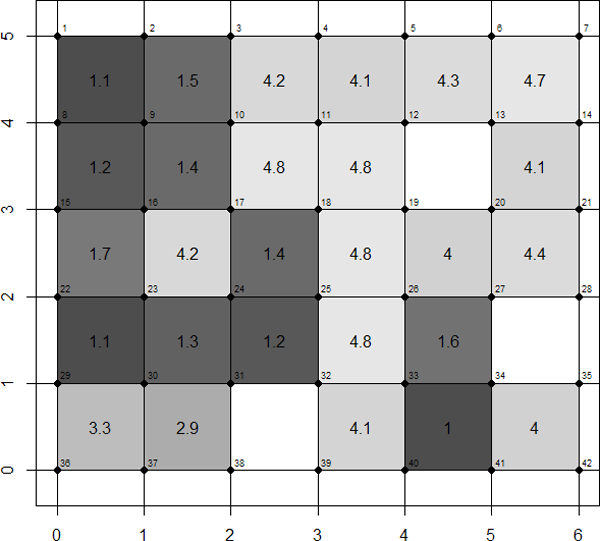
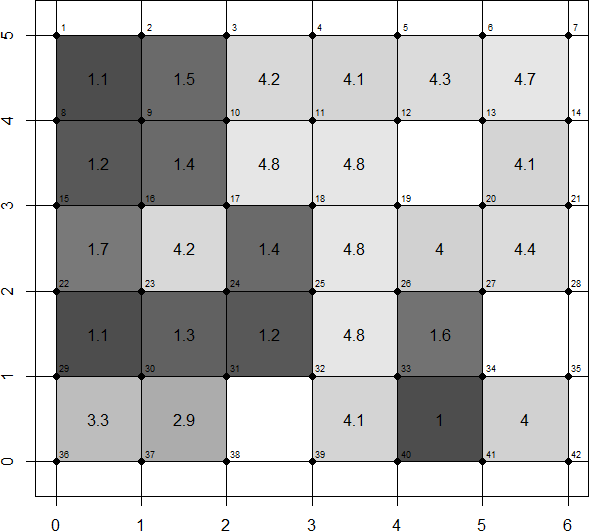
Tidy cv and about

diff --git a/pages/about.md b/pages/about.md
@@ -4,19 +4,27 @@ title: About
 ---
 {% include JB/setup %}
 
-Jason Fisher is a hydrologist with the U.S. Geological Survey (USGS) [Idaho Water Science Center](https://id.water.usgs.gov/).
-He received a B.S. in environmental resources engineering and a M.S. in environmental systems from Humboldt State University,
+I'm a hydrologist with the U.S. Geological Survey (USGS) [Idaho Water Science Center](https://id.water.usgs.gov/).
+I received a B.S. in environmental resources engineering and a M.S. in environmental systems from Humboldt State University,
 and a M.S. and Ph.D. in civil engineering from the University of California Los Angeles.
-Jason started his research career at the U.S. Forest Service Pacific Southwest Research Station, 1997--2001.
-After completing his education, he was a postdoctoral researcher in the School of Engineering at University of California Merced, 2004--2008.
-In 2008, he moved to the USGS where he is the lead modeler at the [Idaho National Laboratory Project Office](https://id.water.usgs.gov/INL/).
-His research experience is varied, including groundwater flow and contaminant transport simulations,
-optimization of long-term monitoring networks, multilevel groundwater monitoring, and water-quality characteristics and trends.
-Recently he has been focusing on reproducible model building; see his [wrv](https://github.com/USGS-R/wrv) package.
+My research career started at the U.S. Forest Service Pacific Southwest Research Station, 1997--2001.
+After completing my education, I was a postdoctoral researcher in the School of Engineering at University of California Merced, 2004--2008.
+In 2008, I moved to the USGS where I'm the lead modeler at the [Idaho National Laboratory Project Office](https://id.water.usgs.gov/INL/).
+My research experience is varied, including groundwater flow and contaminant transport simulations,
+optimization of long-term monitoring networks, multilevel groundwater monitoring, water-quality characteristics and trends,
+and [infographics]({{ site.github.url }}/art/2012/05/31/infographics).
+Recently I've been focusing on [reproducible model building]({{ site.github.url }}/r/2016/08/04/wrv-case-study).
 
-Jason rarely blogs---what few posts he has written are organized by [tags](/tags.html), [categories](/categories.html), and [date](/archive.html).
-His blog posts related to the [R](https://www.r-project.org/)-programming language are aggregated by [R-bloggers](https://www.r-bloggers.com/).
+My science goal is to utilize collected field data to develop models for groundwater systems,
+and to determine and monitor trends of groundwater movement and chemical transport in complex geologic settings, such as fractured rock.
+Groundwater models are necessary for the sustainable management of water resources.
+The goal is to design models that facilitate future flexibility; that is,
+as new data become available, and our understanding of the groundwater system improves,
+the model should be easily adapted and extended to deal with this new information.
+
+I rarely blog---what few posts I've written are organized by [tags](/tags.html), [categories](/categories.html), and [date](/archive.html).
+My blog posts related to the [R](https://www.r-project.org/)-programming language are aggregated by [R-bloggers](https://www.r-bloggers.com/).
 
 ![center](/figs/tower.jpg)
 
-##### "Hills cherish the ambition to turn into partial differential equations." --Donald Hall
+##### "Hills cherish the ambition to turn into partial differential equations." --Donald Hall <br/> Tower Peak, Sierra Nevada, CA

diff --git a/_posts/2012-06-25-grid2polygons.md b/_posts/2012-06-25-grid2polygons.md
@@ -45,20 +45,20 @@ The following examples highlight the functions usefulness:
 Construct a simple spatial grid data frame.
 
 ```r
-m <- 5
-n <- 6
 z <- c(1.1,  1.5,  4.2,  4.1,  4.3,  4.7,
        1.2,  1.4,  4.8,  4.8,   NA,  4.1,
        1.7,  4.2,  1.4,  4.8,  4.0,  4.4,
        1.1,  1.3,  1.2,  4.8,  1.6,   NA,
        3.3,  2.9,   NA,  4.1,  1.0,  4.0)
-x <- rep(0:6, m + 1)
-y <- rep(0:5, each = n + 1)
-xc <- c(rep(seq(0.5, 5.5, by = 1), m))
-yc <- rep(rev(seq(0.5, 4.5, by = 1)), each = n)
+m <- 5
+n <- 6
+x <- rep(0:n, m + 1)
+y <- rep(0:m, each = n + 1)
+xc <- c(rep(seq(0.5, n - 0.5, by = 1), m))
+yc <- rep(rev(seq(0.5, m - 0.5, by = 1)), each = n)
 grd <- data.frame(z = z, xc = xc, yc = yc)
-coordinates(grd) <- ~ xc + yc
-gridded(grd) <- TRUE
+sp::coordinates(grd) <- ~ xc + yc
+sp::gridded(grd) <- TRUE
 grd <- as(grd, "SpatialGridDataFrame")
 ```
 
@@ -69,7 +69,7 @@ image(grd, col = gray.colors(30), axes = TRUE)
 grid(col = "black", lty = 1)
 points(x = x, y = y, pch = 16)
 text(cbind(xc, yc), labels = z)
-text(cbind(x = x + 0.1, y = rev(y + 0.1)), labels = 1:42, cex = 0.6)
+text(cbind(x = x + 0.1, y = rev(y + 0.1)), labels = 1:((m + 1) * (n + 1)), cex = 0.6)
 ```
 
 ![center](/figs/2012-06-25-grid2polygons/fig1.png)
@@ -83,12 +83,13 @@ is used to determine if a polygon ring is filled (island) or is a
 hole in another polygon.
 
 ```r
-plys <- Grid2Polygons(grd, level = TRUE, at = 1:5)
-cols <- rainbow(4, alpha = 0.3)
-plot(plys, col = cols, add = TRUE)
-x <- rep(0:6, m + 1)
-y <- rep(0:5, each = n + 1)
-legend("top", legend = plys[[1]], fill = cols, bty = "n", xpd = TRUE, inset = c(0, -0.1), ncol = 4)
+at <- 1:ceiling(max(z, na.rm = TRUE))
+plys <- Grid2Polygons(grd, level = TRUE, at = at)
+cols <- rainbow(length(plys), alpha = 0.3)
+sp::plot(plys, add = TRUE, col = cols)
+zz <- plys[[1]]
+legend("top", legend = zz, fill = cols, bty = "n", xpd = TRUE,
+       inset = c(0, -0.1), ncol = length(plys))
 ```
 
 ![center](/figs/2012-06-25-grid2polygons/fig2.png)
@@ -103,22 +104,16 @@ included in the **sp** package.
 The effect of leveling is shown in **figure 3**.
 
 ```r
-data(meuse.grid)
-coordinates(meuse.grid) <- ~ x + y
-gridded(meuse.grid) <- TRUE
+data(meuse.grid, package = "sp")
+sp::coordinates(meuse.grid) <- ~ x + y
+sp::gridded(meuse.grid) <- TRUE
 meuse.grid <- as(meuse.grid, "SpatialGridDataFrame")
 meuse.plys <- Grid2Polygons(meuse.grid, "dist", level = FALSE)
-op <- par(mfrow = c(1, 2), oma = c(0, 0, 0, 0), mar = c(0, 0, 0, 0))
-z <- meuse.plys[[1]]
-col.idxs <- findInterval(z, sort(unique(na.omit(z))))
-cols <- heat.colors(max(col.idxs))[col.idxs]
-plot(meuse.plys, col = cols)
+op <- par(mfrow = c(1, 2), oma = rep(0, 4), mar = rep(0, 4))
+sp::plot(meuse.plys, col = heat.colors(length(meuse.plys)))
 title("level = FALSE", line = -7)
 meuse.plys.lev <- Grid2Polygons(meuse.grid, "dist", level = TRUE)
-z <- meuse.plys.lev[[1]]
-col.idxs <- findInterval(z, sort(unique(na.omit(z))))
-cols <- heat.colors(max(col.idxs))[col.idxs]
-plot(meuse.plys.lev, col = cols)
+sp::plot(meuse.plys.lev, col = heat.colors(length(meuse.plys.lev)))
 title("level = TRUE", line = -7)
 par(op)
 ```

diff --git a/_posts/2016-08-04-wrv-case-study.md b/_posts/2016-08-04-wrv-case-study.md
@@ -12,16 +12,14 @@ tags: [reproducibility, package, knitr, model]
 The U.S. Geological Survey ([USGS](https://www.usgs.gov/)) recently published a report describing a groundwater-flow model of the Wood River Valley (WRV) aquifer system.
 What makes this report unique (at least in my opinion) was the authors' desire to make their work as reproducible as possible under budgetary constraints.
 The collection of raw data, source code, and processing instructions used to build and analyze the model was placed in an non-general-use R package named **wrv**.
-The package repository can be found on [GitHub](https://github.com/USGS-R/wrv).
+The package repository can be found on the **G**elogical Survey **R** **A**rchive **N**etwork ([GRAN](https://github.com/USGS-R/wrv)).
 Commands for installing the package are as follows:
 
 ```r
-repos <- c("http://owi.usgs.gov/R", getOption("repos"))
+repos <- c("https://owi.usgs.gov/R", "https://cloud.r-project.org/")
 install.packages("wrv", repos = repos, dependencies = TRUE)  # about 100 MB, so be patient
 ```
 
-While many of the functions are intended for non-general use, there are a few functions that the larger R community might find of interest.
-For example, the `PlotMap`, `PlotGraph`, and `PlotCrossSection` functions have been designed for general use.
 Report documentation was included in the **wrv** package as vignettes; these files are also available from the
 [USGS Publications Warehouse](http://dx.doi.org/10.3133/sir20165080).
 For a general overview of the project, I'll recommend my
@@ -32,4 +30,3 @@ For a general overview of the project, I'll recommend my
 </div>
 
 Any comments or suggestions regarding our approach to reproducible model building can be left below.
-Please realize that your opinions go a long way in determining whether this type of approach will be used in future projects.

diff --git a/pages/cv.md b/pages/cv.md
@@ -146,6 +146,10 @@ title: Curriculum vitae
 
 ### Talks
 
+- USGS National Groundwater Workshop,
+  Reno, NV, Aug. 29, 2016,
+  A case study in reproducible model building: simulating groundwater flow in
+  the Wood River Valley aquifer system, Idaho.
 - The R User Conference ([useR!](http://user2016.org/)),
   Stanford University, Stanford, CA, Jun. 28, 2016,
   A case study in reproducible model building: simulating groundwater flow in
@@ -214,6 +218,10 @@ title: Curriculum vitae
 - AGU Chapman Conference on State-of-the-Art in Hillslope Hydrology, Sunriver,
   OR, Oct. 8, 2001, Simulation of partially saturated--saturated flow in
   the Caspar Creek E-Road groundwater system.
+
+### Code
+
+- See version control repositories on [GitHub](https://github.com/jfisher-usgs).
 
 ### Service
 

diff --git a/_posts/2012-06-01-color-tools.md b/_posts/2012-06-01-color-tools.md
@@ -16,8 +16,7 @@ To access these functions install the
 dependencies:
 
 ```r
-repo <- "http://cran.us.r-project.org"
-install.packages("RSurvey", repos = repo, dependencies = TRUE, type = "both")
+install.packages("RSurvey")
 ```
 
 ## Choose Color
